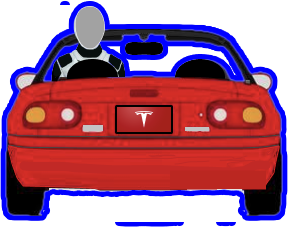
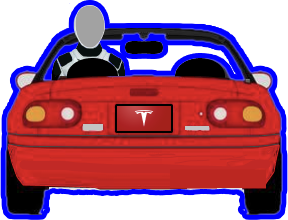
@krasovskii changed cars

diff --git a/inc/game.h b/inc/game.h
@@ -33,8 +33,8 @@
 #define CIRCLE  "resource/img/circles/circle_orange.png"
 #define CIRCLE2  "resource/img/circles/circle_green.png"
 
-#define PLANE  "resource/img/space_car.png"
-#define PLANE2  "resource/img/space_car2.png"
+#define PLANE  "resource/img/car_blue.png"
+#define PLANE2  "resource/img/car_green.png"
 
 #define BACKGROUND_IMG "resource/img/space_bg.jpg"
 
